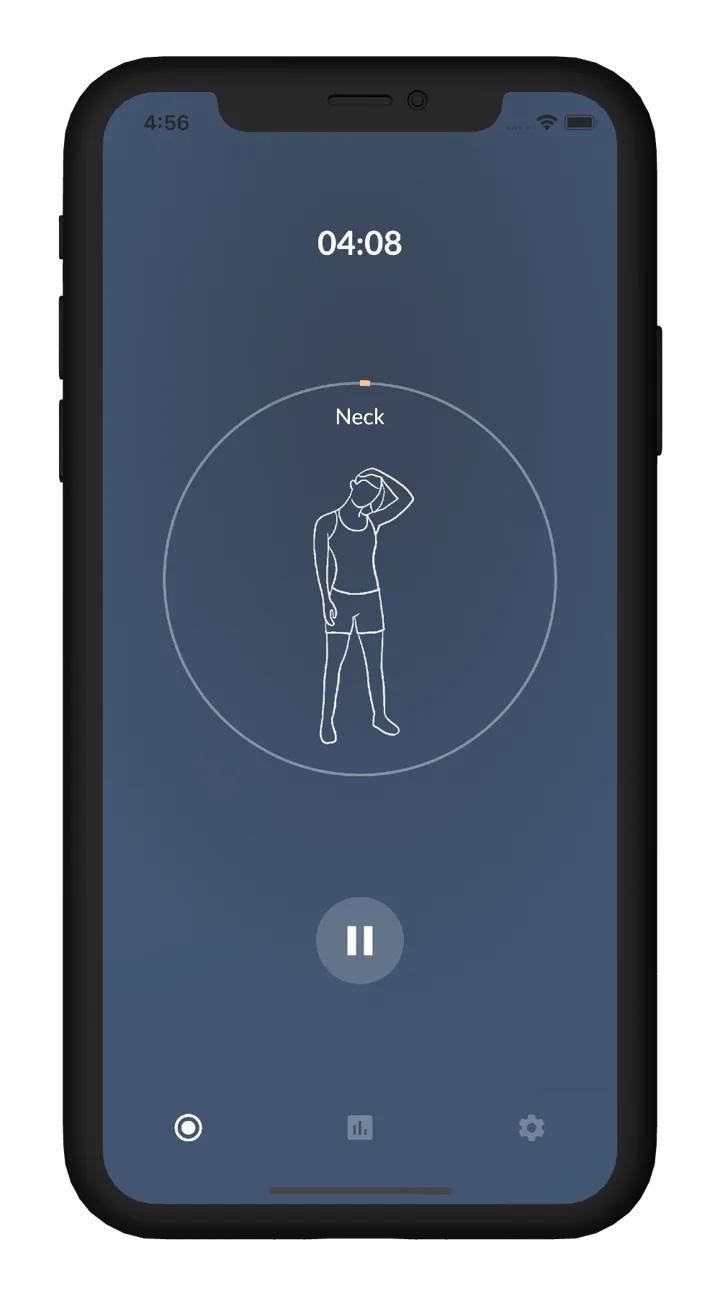
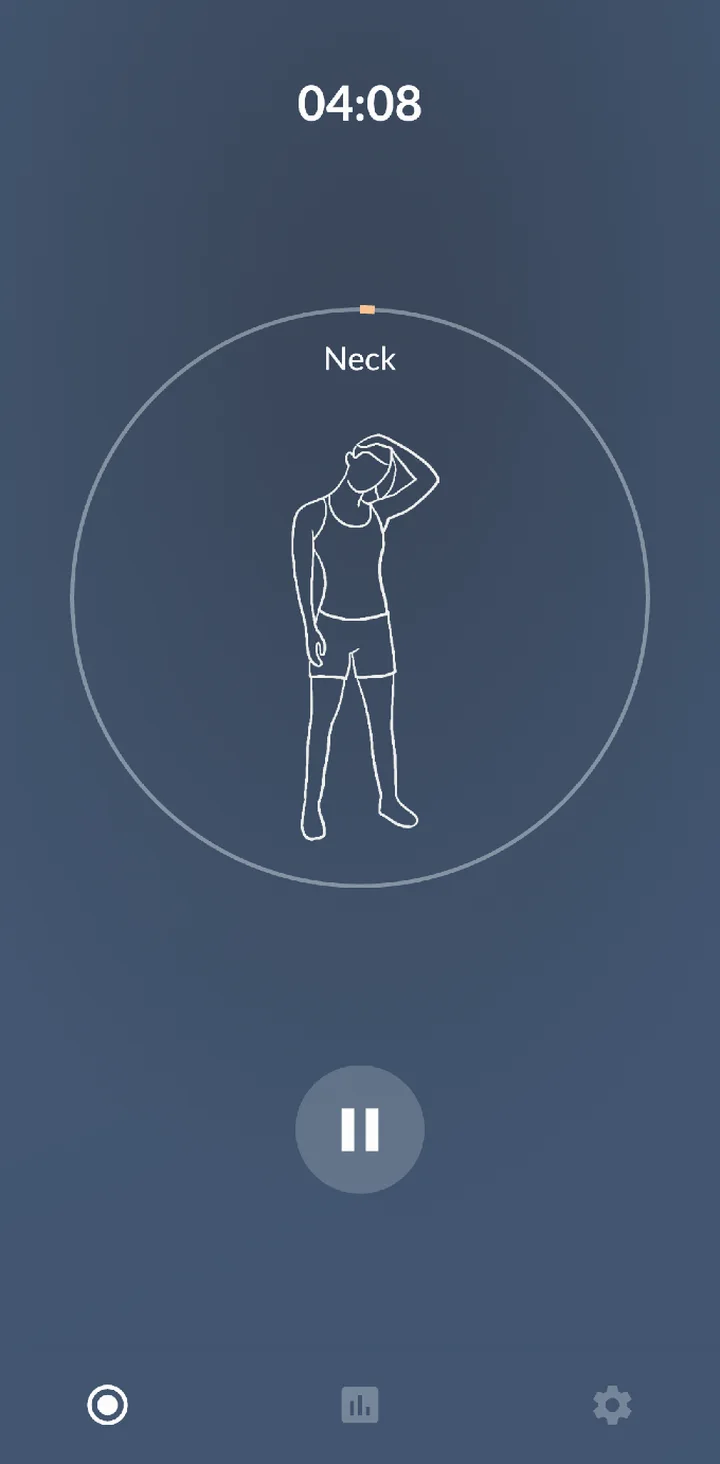
Make screenshots static and consistent
Remove float and breathing motion from screenshots, give every phone shot
the same crop, size, radius and shadow, and replace the tilted Dayfold
cards with a static panel that matches the Core illustration.

Claude-Session: https://claude.ai/code/session_011MVkH6nZ5reC8XqX1YsSps

diff --git a/css/home.css b/css/home.css
@@ -94,12 +94,7 @@ p { margin: 0; }
 .feature h2 { font-size: clamp(34px, 4vw, 46px); line-height: 1.08; }
 .feature-copy p:not(.eyebrow) { font-size: 18px; color: var(--muted); }
 .feature-media { flex: 1 1 380px; display: flex; justify-content: center; gap: 20px; }
-.shot { width: 46%; max-width: 240px; border-radius: 28px; border: 1px solid #2a2926; box-shadow: 0 24px 60px rgba(0,0,0,.5); }
-.shot.lower { margin-top: 48px; }
-.shot.solo { width: 60%; max-width: 280px; }
-.float { animation: float 6s ease-in-out infinite; }
-.float-2 { animation: float2 7s ease-in-out infinite; }
-.breathe { animation: stretch 4s ease-in-out infinite; }
+.shot { width: calc(50% - 10px); max-width: 260px; border-radius: 28px; border: 1px solid #2a2926; box-shadow: 0 24px 60px rgba(0,0,0,.5); }
 
 .chart { flex: 1 1 380px; background: var(--panel); border-radius: 24px; padding: 28px; height: 280px; display: flex; align-items: flex-end; gap: 10px; }
 .chart div { flex: 1; display: flex; flex-direction: column; align-items: center; justify-content: flex-end; gap: 10px; height: 100%; font-size: 13px; color: var(--faint); }
@@ -161,9 +156,6 @@ p { margin: 0; }
 .footer a:hover { color: var(--ink); }
 
 /* Motion */
-@keyframes float { 0%,100% { transform: translateY(0); } 50% { transform: translateY(-12px); } }
-@keyframes float2 { 0%,100% { transform: translateY(-8px); } 50% { transform: translateY(6px); } }
-@keyframes stretch { 0%,100% { transform: scale(1); } 50% { transform: scale(1.03); } }
 @keyframes grow { from { transform: scaleY(0); } to { transform: scaleY(1); } }
 @keyframes rise { from { opacity: 0; transform: translateY(24px); } to { opacity: 1; transform: none; } }
 
@@ -182,7 +174,6 @@ p { margin: 0; }
 @media (max-width: 560px) {
   .people { grid-template-columns: 1fr; }
   .play { left: 14px; bottom: 14px; }
-  .shot.lower { margin-top: 24px; }
 }
 
 /* App sub-pages (dayfold.html, core.html). Each page sets --app / --app-ink / --app-soft on <body>. */
@@ -219,18 +210,15 @@ p { margin: 0; }
 .promo img { width: 56px; height: 56px; border-radius: 14px; }
 .promo strong { font-family: var(--serif); font-weight: 500; font-size: 26px; display: block; }
 
-/* Dayfold illustration */
-.moments { position: relative; width: min(420px, 100%); aspect-ratio: 1 / 1.05; }
-.moment { position: absolute; border-radius: 26px; padding: 22px 24px; display: flex; flex-direction: column; justify-content: space-between; box-shadow: 0 24px 60px rgba(0,0,0,.45); }
-.moment small { font-size: 14px; opacity: .75; }
-.moment b { font-family: var(--serif); font-weight: 500; font-size: 52px; line-height: 1; letter-spacing: -0.02em; }
-.moment b i { font-style: normal; font-family: var(--sans); font-size: 16px; font-weight: 500; opacity: .7; margin-left: 6px; }
-.moment.m1 { left: 0; top: 4%; width: 62%; height: 42%; background: #fbf6e4; color: #1c1b19; transform: rotate(-4deg); }
-.moment.m2 { right: 0; top: 22%; width: 56%; height: 38%; background: #ffcb45; color: #26241f; transform: rotate(5deg); }
-.moment.m3 { left: 12%; bottom: 2%; width: 66%; height: 40%; background: #1c1b19; color: #f5f1e6; border: 1px solid #3a3731; transform: rotate(-1deg); }
-.reveal.in .moment, .moments.in .moment { animation: rise .9s cubic-bezier(.2,.7,.2,1) both; }
-.moment.m2 { animation-delay: .12s !important; }
-.moment.m3 { animation-delay: .24s !important; }
+/* Dayfold illustration (static, matches the Core panel) */
+.moments { width: min(420px, 100%); background: #1c1b19; border-radius: 32px; padding: 24px; display: flex; flex-direction: column; gap: 14px; box-shadow: 0 24px 60px rgba(0,0,0,.45); }
+.moment { border-radius: 20px; padding: 18px 22px; display: flex; align-items: center; justify-content: space-between; }
+.moment small { font-size: 15px; opacity: .8; }
+.moment b { font-family: var(--serif); font-weight: 500; font-size: 40px; line-height: 1; letter-spacing: -0.02em; }
+.moment b i { font-style: normal; font-family: var(--sans); font-size: 14px; font-weight: 500; opacity: .7; margin-left: 6px; }
+.moment.m1 { background: #fbf6e4; color: #1c1b19; }
+.moment.m2 { background: #ffcb45; color: #26241f; }
+.moment.m3 { background: #2a2824; color: #f5f1e6; }
 
 /* Core illustration */
 .interval { width: min(420px, 100%); background: #1d1d2b; border-radius: 32px; padding: 32px; display: flex; flex-direction: column; gap: 22px; box-shadow: 0 24px 60px rgba(0,0,0,.45); }

diff --git a/index.html b/index.html
@@ -243,14 +243,14 @@
           <p>Set your session, tag it with a category and start. Auto-Run keeps rounds going without tapping back in, and ambient sounds — forest, tide, café, bonfire — help you settle.</p>
         </div>
         <div class="feature-media">
-          <img class="shot float" src="images/shot-ios-timer.webp" alt="Foca focus timer on iPhone" width="720" height="1464" loading="lazy">
-          <img class="shot lower float-2" src="images/shot-ios-sounds.webp" alt="Choosing an ambient sound in Foca" width="720" height="1464" loading="lazy">
+          <img class="shot" src="images/shot-ios-timer.webp" alt="Foca focus timer on iPhone" width="720" height="1464" loading="lazy">
+          <img class="shot" src="images/shot-ios-sounds.webp" alt="Choosing an ambient sound in Foca" width="720" height="1464" loading="lazy">
         </div>
       </div>
 
       <div class="feature flip reveal">
         <div class="feature-media">
-          <img class="shot solo breathe" src="images/shot-ios-stretch.webp" alt="Guided neck stretch in Foca" width="720" height="1296" loading="lazy">
+          <img class="shot" src="images/shot-ios-stretch.webp" alt="Guided neck stretch in Foca" width="720" height="1464" loading="lazy">
         </div>
         <div class="feature-copy">
           <p class="eyebrow">02 · Break</p>

diff --git a/dayfold.html b/dayfold.html
@@ -92,7 +92,7 @@
         <p class="faint">Free to download · Dayfold Pro optional · No account needed</p>
       </div>
       <div class="app-hero-media">
-        <div class="moments in" role="img" aria-label="Illustration of three Dayfold Moment cards">
+        <div class="moments" role="img" aria-label="Illustration of three Dayfold Moment cards">
           <div class="moment m1"><small>Mom's birthday</small><b>12<i>days</i></b></div>
           <div class="moment m2"><small>Tokyo trip</small><b>34<i>days</i></b></div>
           <div class="moment m3"><small>Together since</small><b>1,204<i>days</i></b></div>
